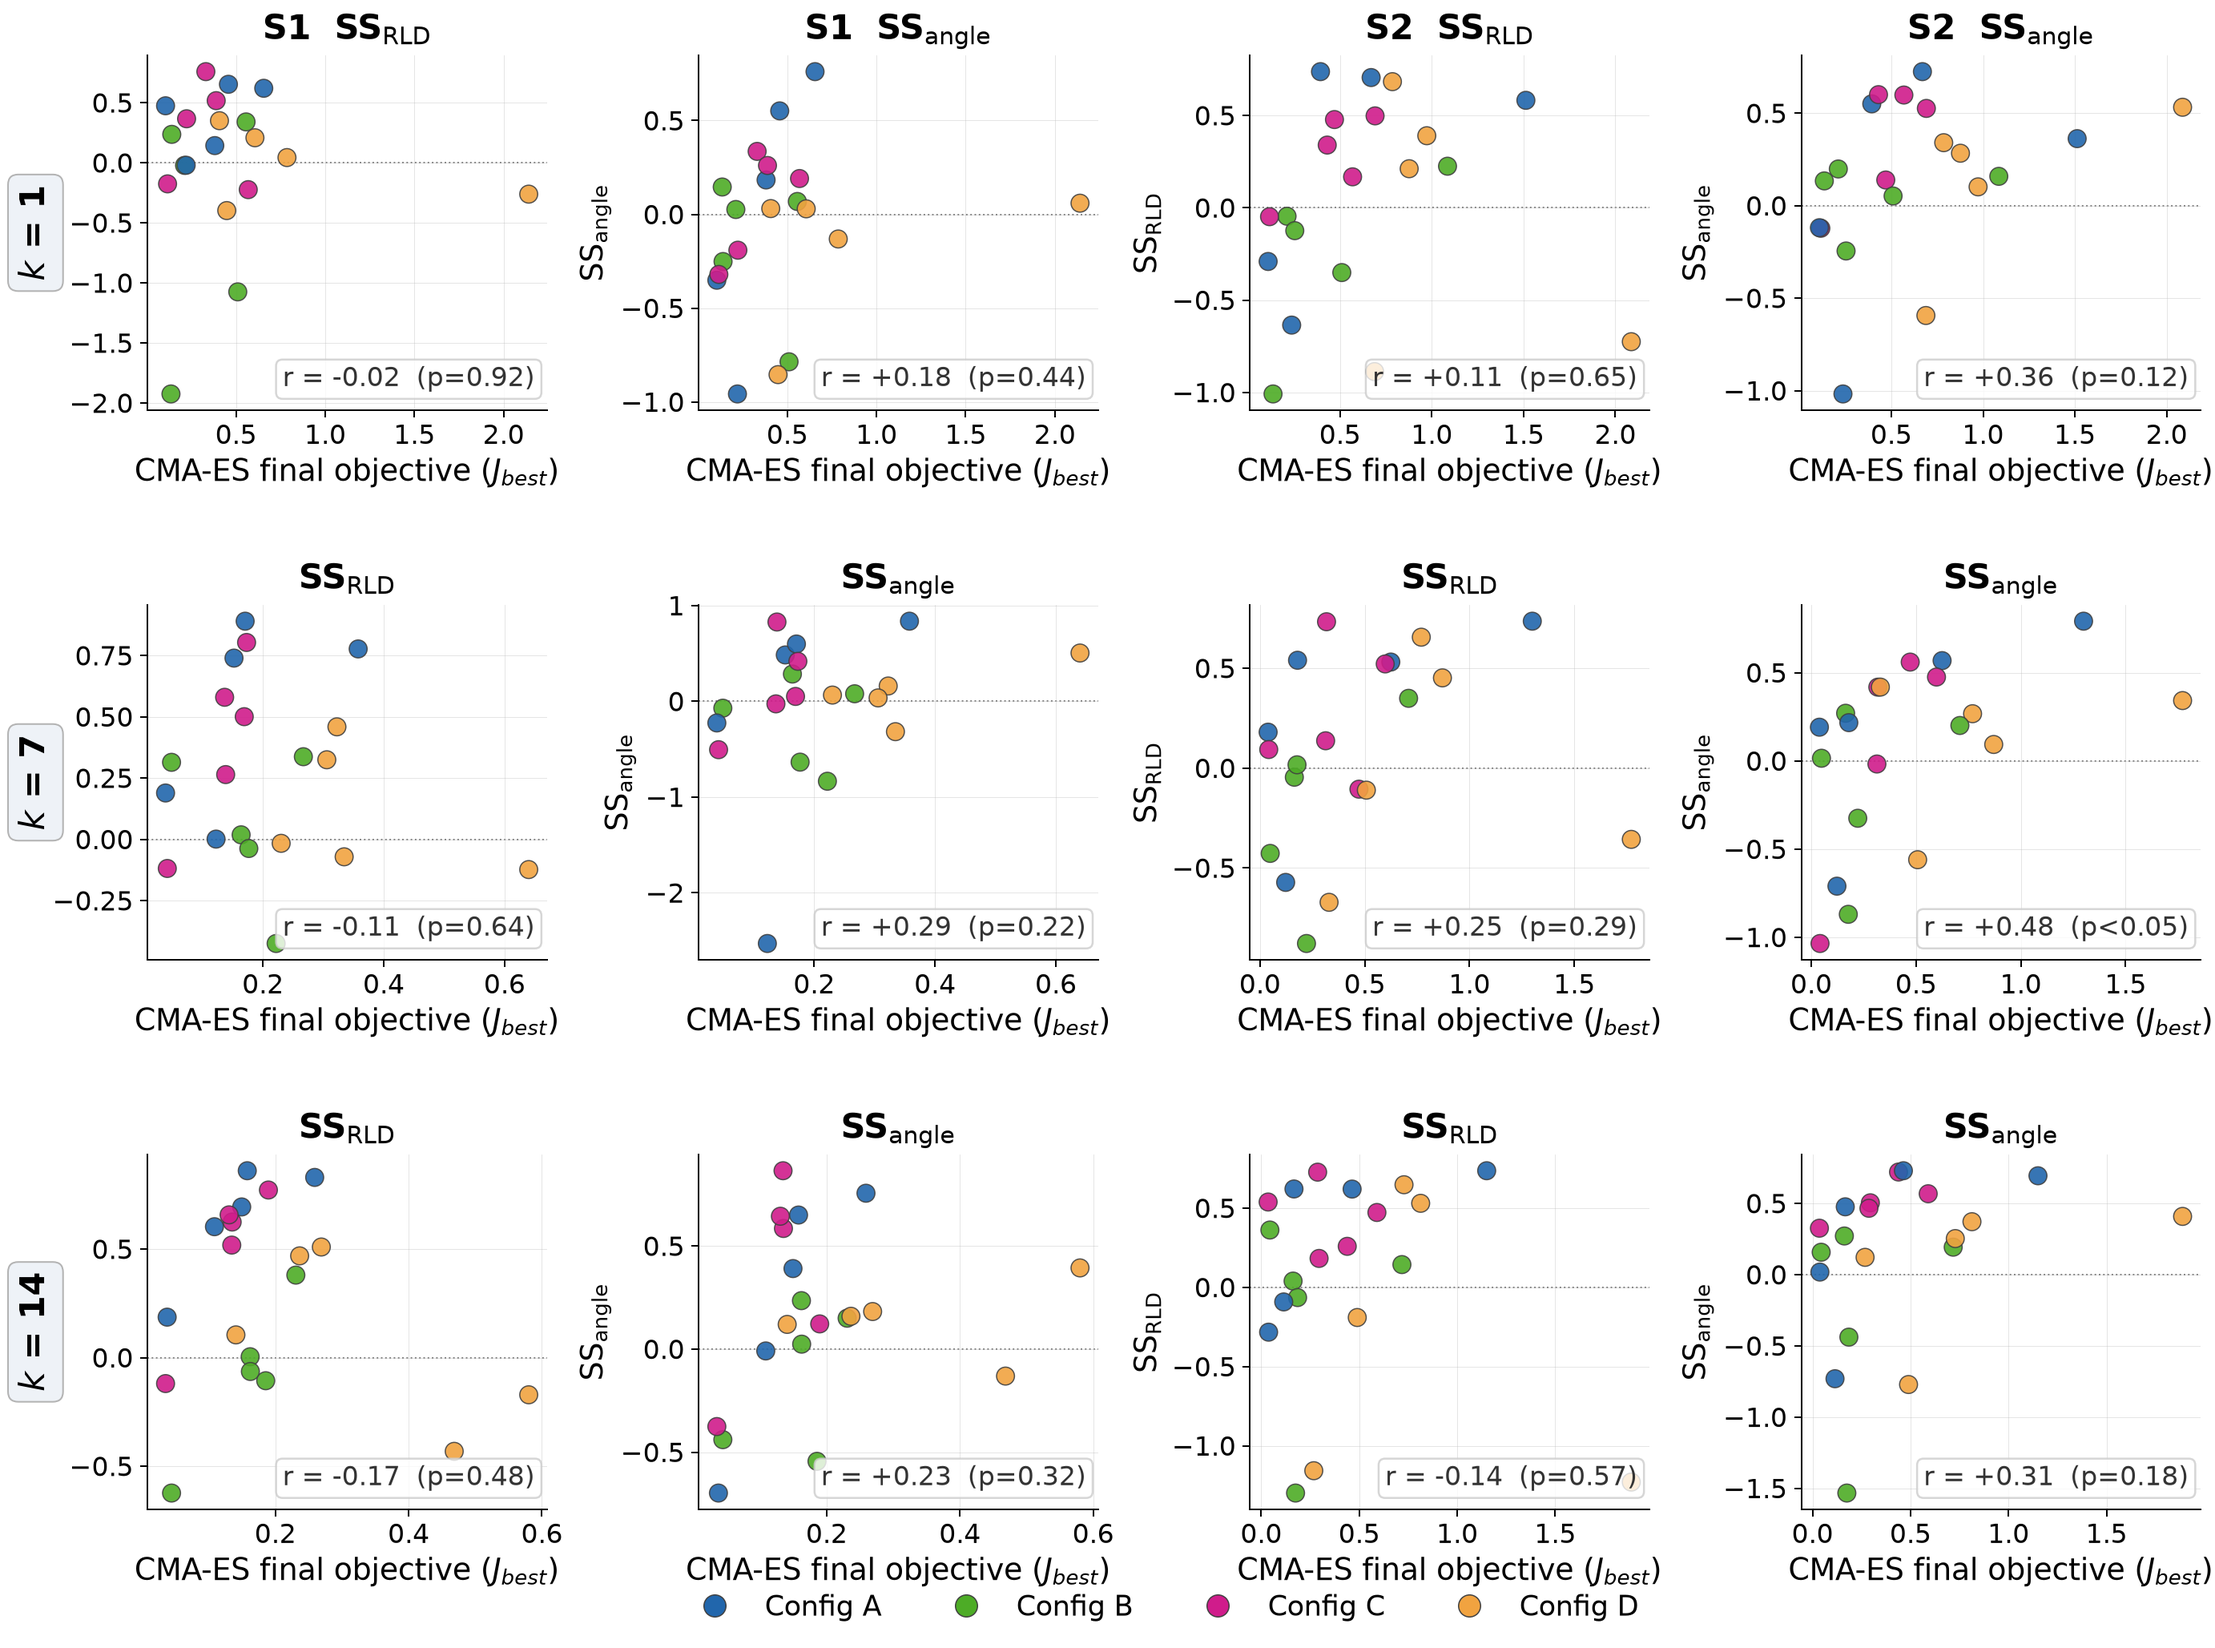
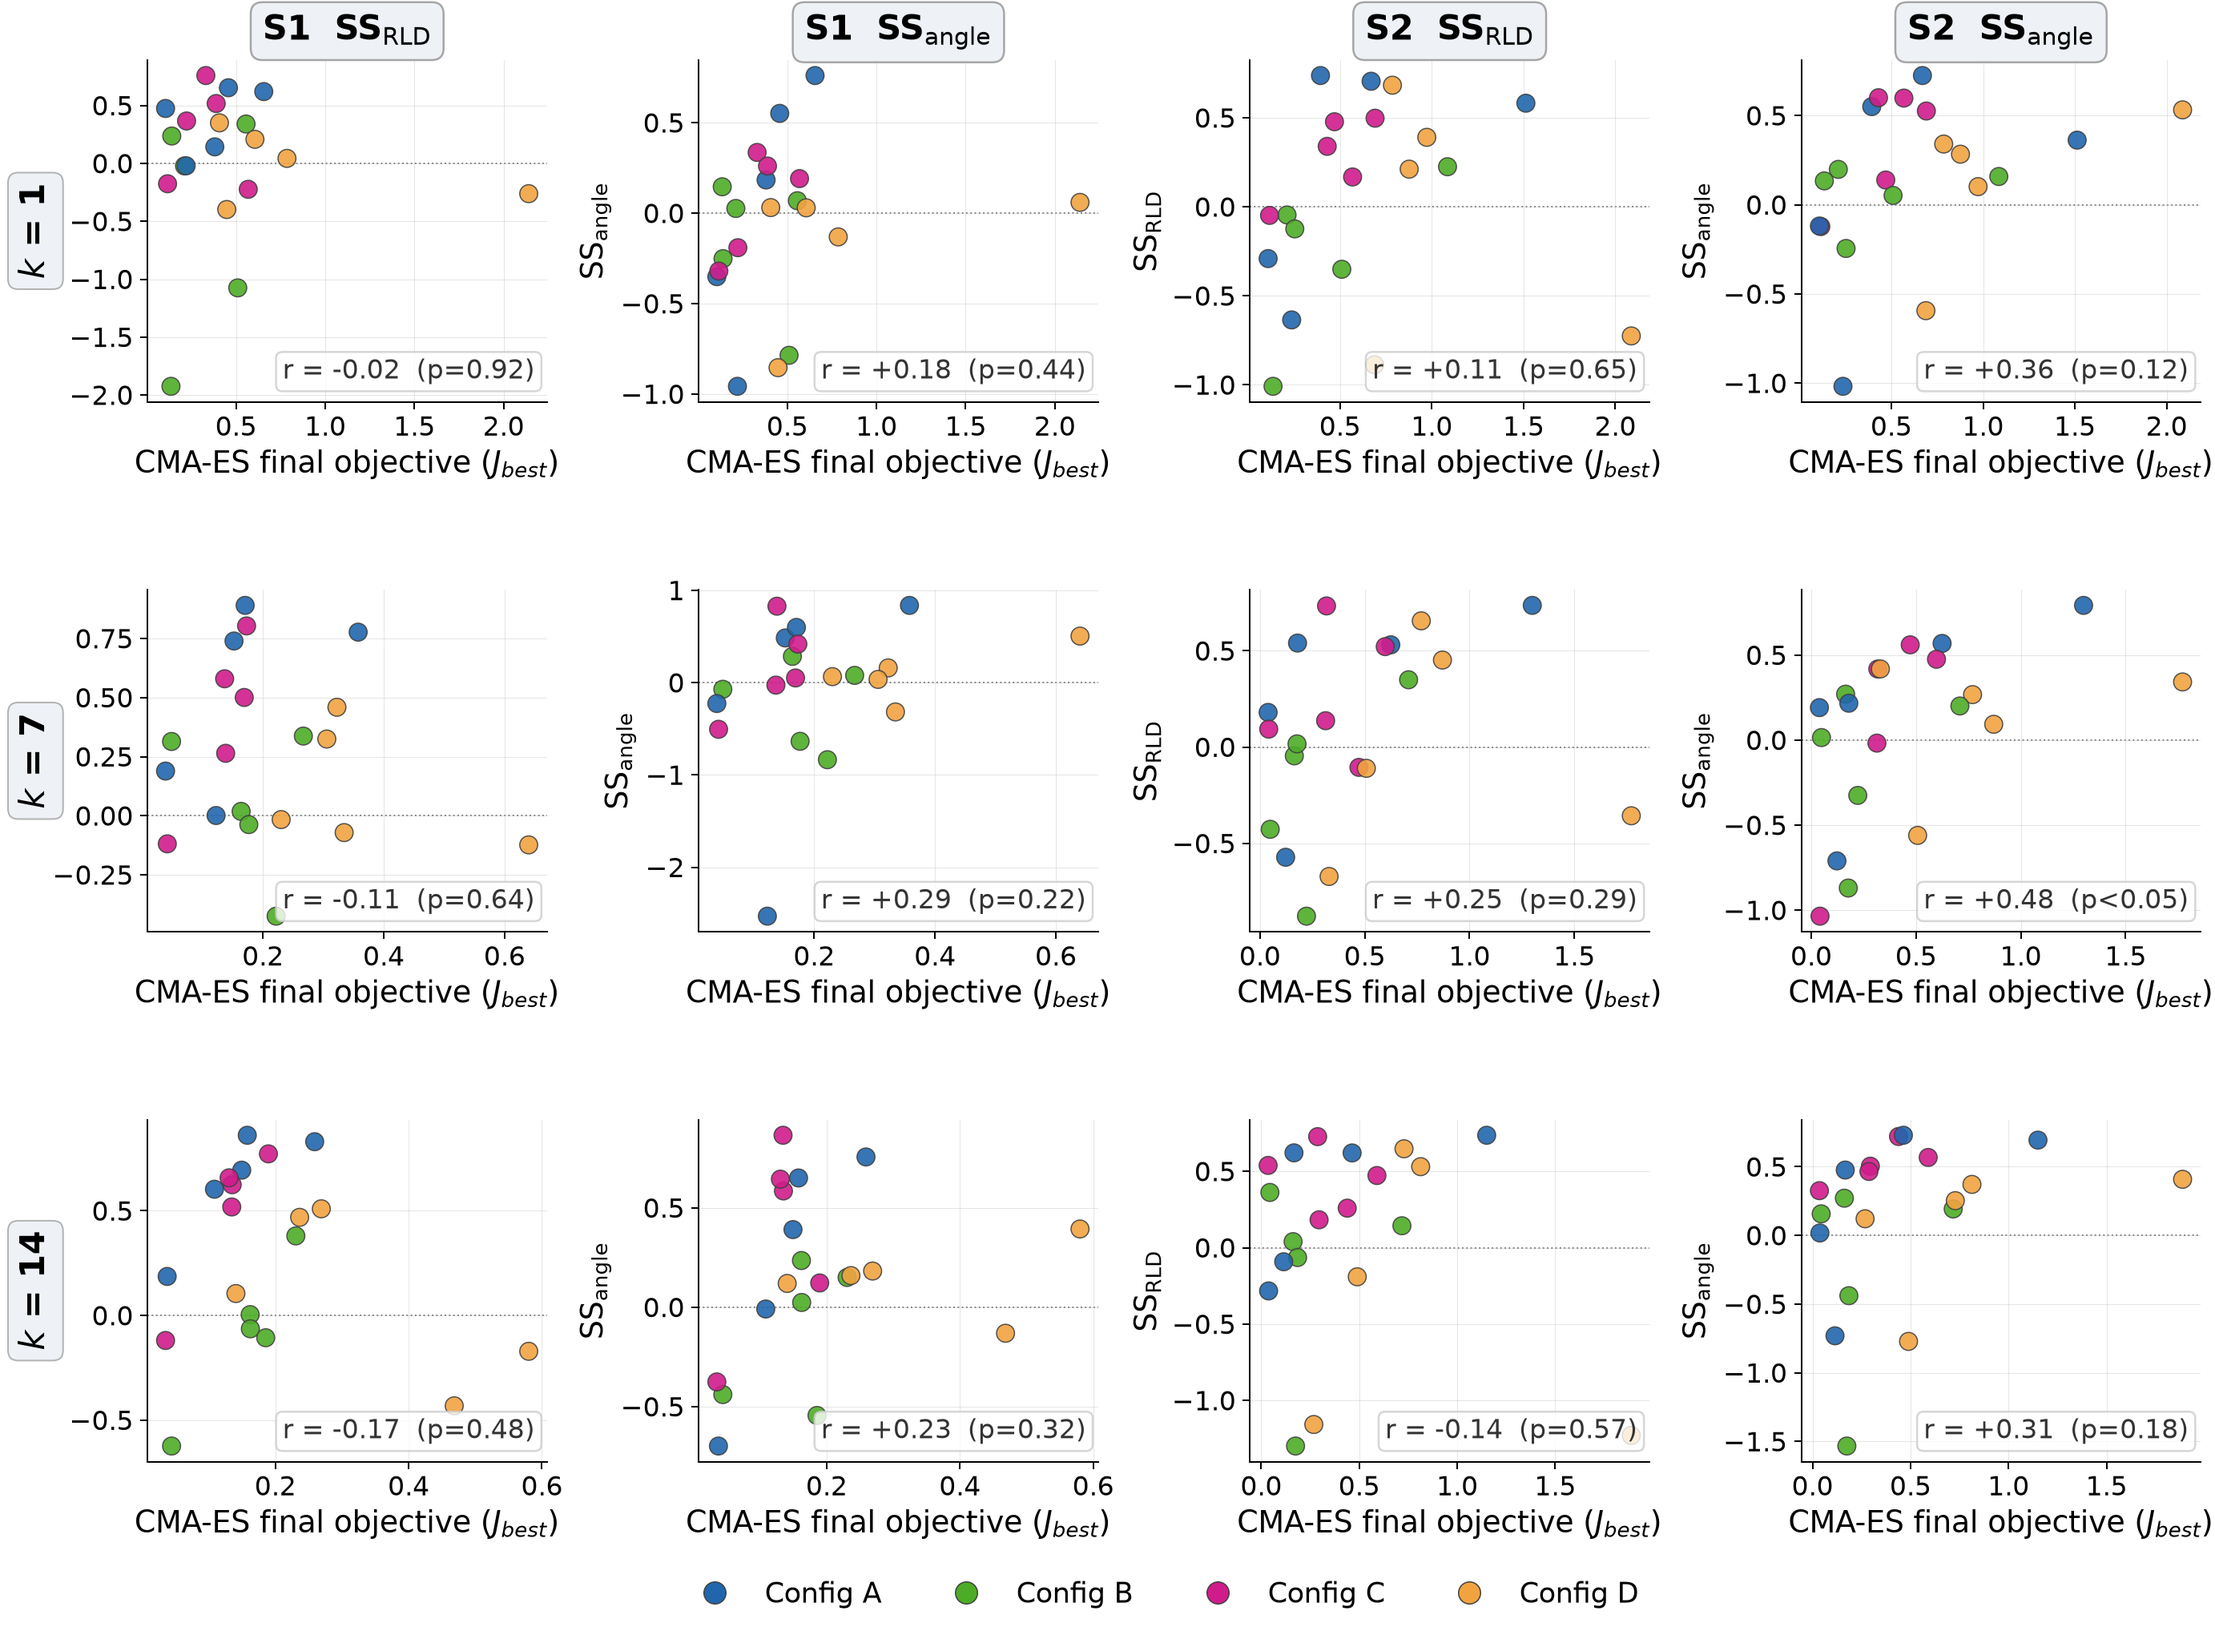
Fig6: boxed column headers row 1 only, no titles rows 2-3, more legend space

diff --git a/publication/scripts/plot_fig6_equifinality.py b/publication/scripts/plot_fig6_equifinality.py
@@ -85,7 +85,7 @@ COLS = [
 # ── Plot 3×4 ─────────────────────────────────────────────────────────────────
 
 fig, axes = plt.subplots(3, 4, figsize=(16, 12))
-fig.subplots_adjust(left=0.08, right=0.97, top=0.93, bottom=0.09,
+fig.subplots_adjust(left=0.08, right=0.97, top=0.93, bottom=0.12,
                     hspace=0.55, wspace=0.38)
 
 for row_idx, kcfg in enumerate(K_CONFIGS):
@@ -117,8 +117,9 @@ for row_idx, kcfg in enumerate(K_CONFIGS):
         ax.spines["right"].set_visible(False)
         ax.grid(axis="both", lw=0.35, alpha=0.45, color="0.75")
 
-        title = col_title if row_idx == 0 else col_title.split("  ")[1]
-        ax.set_title(title, fontsize=17, fontweight="bold", pad=8)
+        if row_idx == 0:
+            t = ax.set_title(col_title, fontsize=17, fontweight="bold", pad=10)
+            t.set_bbox(dict(boxstyle="round,pad=0.35", fc="#eef2f7", ec="0.65", lw=1.0))
 
     # Row label: k value
     axes[row_idx, 0].annotate(
@@ -135,7 +136,7 @@ cfg_patches = [Line2D([0], [0], marker="o", color="w",
                       markeredgewidth=0.6, markersize=11, label=f"Config {CFG_LABEL[c]}")
                for c in ["A", "B2", "C", "D2"]]
 fig.legend(handles=cfg_patches, loc="lower center", ncol=4, fontsize=14,
-           frameon=False, bbox_to_anchor=(0.52, 0.01))
+           frameon=False, bbox_to_anchor=(0.52, 0.02))
 
 os.makedirs(os.path.dirname(FIG_OUT), exist_ok=True)
 fig.savefig(FIG_OUT, dpi=180, bbox_inches="tight", facecolor="white")
